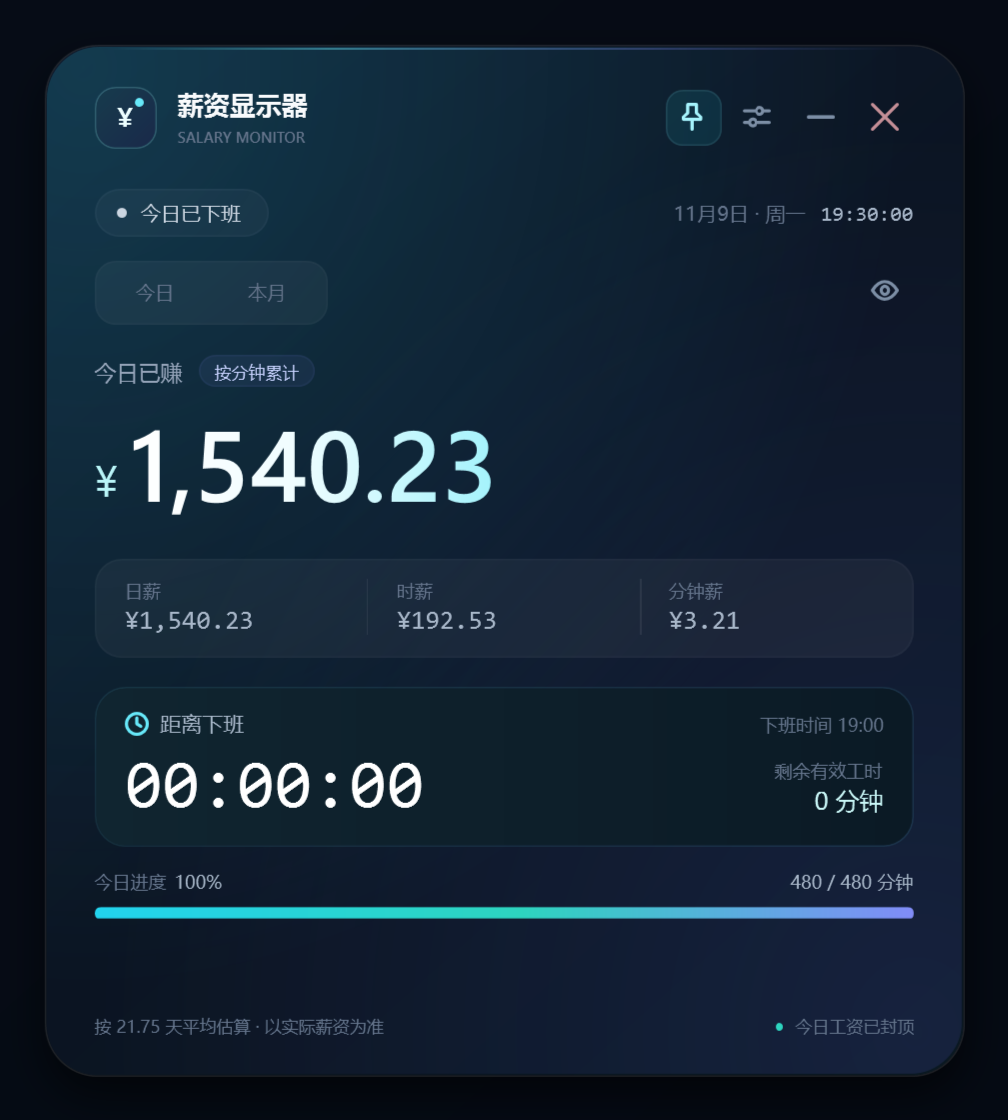
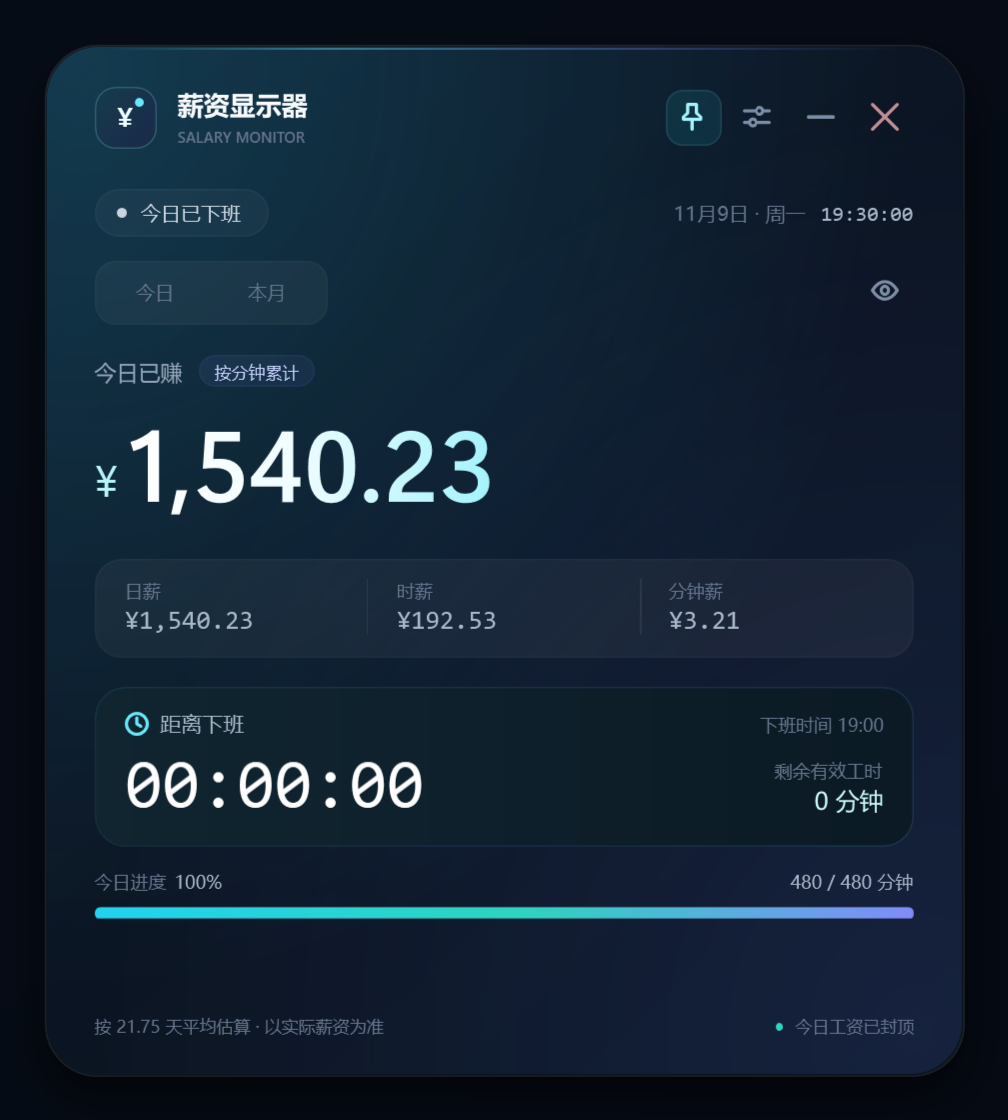
Improve Windows digit anti-aliasing for v1.3.1

Changed region(s): [[0.2153, 0.375, 0.4921, 0.4688], [0.1538, 0.4375, 0.2153, 0.4688]]

diff --git a/src/UI/MainWindow.cs b/src/UI/MainWindow.cs
@@ -442,8 +442,8 @@ namespace SalaryMonitor.UI
             currency.Margin = new Thickness(0, 0, 6, 9);
             row.Children.Add(currency);
 
-            _monthAmountText = Theme.Text("0.00", 50, Theme.AmountForeground,
-                Theme.NumberFont, FontWeights.SemiBold);
+            _monthAmountText = Theme.AnimatedDigits(Theme.Text(
+                "0.00", 50, Theme.AmountForeground, Theme.NumberFont, FontWeights.Medium));
             _monthAmountText.VerticalAlignment = VerticalAlignment.Bottom;
             _monthAmountText.HorizontalAlignment = HorizontalAlignment.Left;
             row.Children.Add(_monthAmountText);
@@ -538,8 +538,8 @@ namespace SalaryMonitor.UI
             StackPanel count = new StackPanel();
             count.Orientation = Orientation.Horizontal;
             count.VerticalAlignment = VerticalAlignment.Bottom;
-            _monthPaydayDaysText = Theme.Text("—", 34, Theme.White,
-                Theme.MonoFont, FontWeights.Normal);
+            _monthPaydayDaysText = Theme.AnimatedDigits(Theme.Text(
+                "—", 34, Theme.White, Theme.MonoFont, FontWeights.Normal));
             _monthPaydayDaysText.VerticalAlignment = VerticalAlignment.Bottom;
             _monthPaydayUnitText = Theme.CnText("天", 11, Theme.TextSoft, FontWeights.Normal);
             _monthPaydayUnitText.Margin = new Thickness(5, 0, 0, 7);
@@ -646,7 +646,8 @@ namespace SalaryMonitor.UI
             currency.Margin = new Thickness(0, 0, 6, 9);
             row.Children.Add(currency);
 
-            _amountText = Theme.Text("0.00", 50, Theme.AmountForeground, Theme.NumberFont, FontWeights.SemiBold);
+            _amountText = Theme.AnimatedDigits(Theme.Text(
+                "0.00", 50, Theme.AmountForeground, Theme.NumberFont, FontWeights.Medium));
             _amountText.VerticalAlignment = VerticalAlignment.Bottom;
             _amountText.HorizontalAlignment = HorizontalAlignment.Left;
             row.Children.Add(_amountText);
@@ -740,7 +741,7 @@ namespace SalaryMonitor.UI
             timerRow.ColumnDefinitions.Add(new ColumnDefinition { Width = new GridLength(1, GridUnitType.Star) });
             timerRow.ColumnDefinitions.Add(new ColumnDefinition { Width = GridLength.Auto });
 
-            _timerText = Theme.MonoText("00:00:00", 34, Theme.White);
+            _timerText = Theme.AnimatedDigits(Theme.MonoText("00:00:00", 34, Theme.White));
             _timerText.VerticalAlignment = VerticalAlignment.Bottom;
             timerRow.Children.Add(_timerText);
 

diff --git a/src/UI/Theme.cs b/src/UI/Theme.cs
@@ -13,7 +13,10 @@ namespace SalaryMonitor.UI
         public static readonly FontFamily ChineseFont = new FontFamily("Microsoft YaHei UI");
         public static readonly FontFamily UiFont = new FontFamily("Segoe UI");
         public static readonly FontFamily MonoFont = new FontFamily("Consolas");
-        public static readonly FontFamily NumberFont = new FontFamily("Segoe UI");
+        // Display-optimized Segoe UI Variable has rounder, smoother large digits
+        // on Windows 11; Windows 10 falls back to the classic Segoe UI family.
+        public static readonly FontFamily NumberFont =
+            new FontFamily("Segoe UI Variable Display, Segoe UI");
 
         public static readonly Color TextPrimaryColor = Hex("#F8FAFC");
         public static readonly Color TextSecondaryColor = Hex("#94A3B8");
@@ -167,7 +170,20 @@ namespace SalaryMonitor.UI
             text.TextWrapping = TextWrapping.NoWrap;
             text.VerticalAlignment = VerticalAlignment.Center;
             TextOptions.SetTextFormattingMode(text, TextFormattingMode.Ideal);
-            TextOptions.SetTextRenderingMode(text, TextRenderingMode.Grayscale);
+            TextOptions.SetTextRenderingMode(text, TextRenderingMode.Auto);
+            return text;
+        }
+
+        /// <summary>
+        /// Large, continuously changing digits look smoother without pixel
+        /// hinting. Small labels keep their normal hinting for crispness.
+        /// </summary>
+        public static TextBlock AnimatedDigits(TextBlock text)
+        {
+            if (text != null)
+            {
+                TextOptions.SetTextHintingMode(text, TextHintingMode.Animated);
+            }
             return text;
         }
 

diff --git a/src/AssemblyInfo.cs b/src/AssemblyInfo.cs
@@ -13,6 +13,6 @@ using System.Runtime.InteropServices;
 [assembly: ComVisible(false)]
 [assembly: Guid("a9b885d0-bf93-45c0-b7ef-2d3f5cecb4d3")]
 
-[assembly: AssemblyVersion("1.3.0.0")]
-[assembly: AssemblyFileVersion("1.3.0.0")]
-[assembly: AssemblyInformationalVersion("1.3.0")]
+[assembly: AssemblyVersion("1.3.1.0")]
+[assembly: AssemblyFileVersion("1.3.1.0")]
+[assembly: AssemblyInformationalVersion("1.3.1")]

diff --git a/docs/03-测试记录.md b/docs/03-测试记录.md
@@ -1,10 +1,10 @@
-# 薪资显示器 v1.3.0 · 测试记录
+# 薪资显示器 v1.3.1 · 测试记录
 
 > **执行日期**：2026-11-16  
 > **执行人**：AI 编码代理  
 > **对应需求**：[`01-需求与方案设计.md`](01-需求与方案设计.md)  
 > **对应用例**：[`02-测试用例.md`](02-测试用例.md)  
-> **结论**：**核心功能、实际工作日模式、金额隐私显示、本月视图与交付验证通过（PASS）**；环境类未覆盖项见第 7 节。
+> **结论**：**核心功能、实际工作日模式、金额隐私显示、本月视图、数字抗锯齿优化与交付验证通过（PASS）**；环境类未覆盖项见第 7 节。
 
 ---
 
@@ -14,8 +14,8 @@
 |---|---|
 | 产物 | `dist\薪资显示器.exe` |
 | 文件大小 | 228,864 字节 |
-| 产品版本 | 1.3.0.0 |
[1 lines of base64/hex data omitted]
+| 产品版本 | 1.3.1.0 |
[1 lines of base64/hex data omitted]
 | 分发目录 | 包含 exe 与 Android APK；删除旧测试遗留的 `SalaryMonitor.settings.json`，交付目录无多余便携配置 |
 | PE 子系统 | 2（Windows GUI，无控制台窗口） |
 | 图标 | 已嵌入并可提取 |
@@ -78,6 +78,7 @@ RESULT: PASS
 | 本月累计 | 2026-11-05 默认 ¥5,673.18、实际模式 ¥5,875.79；2026-12 月末平均模式高于月薪、实际模式等于月薪 |
 | 本月进度 | 完整工作日 + 今日已完成分钟折算；节假日/调休/周末与现有日历规则一致 |
 | 发薪日 | 15 日跨月、当天、次日；短月 31→最后一天；闰年 29；未设置；跨年；校验与克隆 |
+| 数字渲染 | 大金额/倒计时使用 Ideal 排版、Auto 渲染、Animated 提示；字体回退与字重不影响布局和数值 |
 | 自定义排班 | 510 分钟、420 分钟排班按自身分钟数重新计算费率 |
 | 金额格式 | 千分位、两位小数、四舍五入远离零、全天无累计舍入误差 |
 | 参数校验 | 薪资、计薪天数、时间格式、时间顺序、跨天排班 |
@@ -103,13 +104,14 @@ RESULT: PASS
 
 ## 4. UI 自动化验证
 
-测试构建额外支持固定时钟和测试配置目录（仅 `UI_TEST_BUILD`；正式 exe 不包含）。v1.0.2 已用 Windows UI Automation 执行 UI 冒烟；v1.1.0 构建后重新做截图验证；v1.2.0 用 UI Automation 实际点击小眼睛并核对配置文件；v1.3.0 增加今日/本月切换、发薪日保存和本月隐私检查，结果 `PASS`。
+测试构建额外支持固定时钟和测试配置目录（仅 `UI_TEST_BUILD`；正式 exe 不包含）。v1.0.2 已用 Windows UI Automation 执行 UI 冒烟；v1.1.0 构建后重新做截图验证；v1.2.0 用 UI Automation 实际点击小眼睛并核对配置文件；v1.3.0 增加今日/本月切换、发薪日保存和本月隐私检查；v1.3.1 复跑并核对数字渲染，结果 `PASS`。
 
 | 场景 | 结果 |
 |---|---|
 | 16:28:35 主界面 | 显示 ¥1,052.49、02:31:25、68.3%、328/480 分钟 |
 | 本月视图 | 切到“本月”显示 ¥5,673.18、3.7 / 21 天、发薪日未设置；切回今日恢复 ¥1,052.49 |
 | 本月隐私 | 在本月页点击小眼睛后金额 `••••••`、日薪 `¥••••`；再次点击恢复；切页签不闪出金额 |
+| 数字抗锯齿 | 大金额、倒计时和本月金额使用新字体/字重与 Animated 提示；125% 缩放下边缘更平滑，金额宽度和布局无溢出 |
 | 小眼睛隐藏 | 实际点击后主金额变为 `••••••`、费率变为 `¥••••`，配置写入 `amountsHidden=true` |
 | 隐藏状态重启 | 关闭并重启后仍显示 `••••••`，说明持久化生效 |
 | 小眼睛恢复 | 再次点击后恢复 ¥1,052.49；按钮 Tooltip 在“隐藏金额/显示金额”之间切换 |
@@ -133,7 +135,7 @@ RESULT: PASS
 | 最小化/恢复 | 最小化成功，恢复后窗口可继续操作 |
 | 关闭 | 关闭按钮后进程退出，无托盘残留 |
 
-### 4.1 受限启动保存回归（v1.0.1 修复，v1.3.0 复跑）
+### 4.1 受限启动保存回归（v1.0.1 修复，v1.3.1 复跑）
 
 将正式 exe 复制到隔离目录 `build\portable-ui-test`，以当前普通用户、**非管理员、Low Integrity** 启动：
 
@@ -163,6 +165,7 @@ PORTABLE UI TEST: PASS
 - [隐藏工资](screenshots/main-hidden.png)
 - [本月视图](screenshots/month.png)
 - [本月隐藏工资](screenshots/month-hidden.png)
+- [数字渲染对比（v1.3.0 / v1.3.1）](screenshots/typography-compare.png)
 - [上班前](screenshots/main-before-work.png)
 - [午休态](screenshots/main-lunch.png)
 - [下班后](screenshots/main-after-work.png)
@@ -203,7 +206,7 @@ TIMER_AND_MINUTE_UPDATE: PASS
 | 关闭 | 进程正常退出 |
 | 文件数量 | `dist` 目录仅包含 Windows exe 与 Android APK，无遗留便携配置 |
 | 图标 | 提取成功 |
-| 文件版本 | 1.3.0.0，产品名“薪资显示器” |
+| 文件版本 | 1.3.1.0，产品名“薪资显示器” |
 | 配置路径 | 默认 `%APPDATA%\SalaryMonitor\settings.json`；AppData 不可写时回退到 exe 同目录 `SalaryMonitor.settings.json` |
 
 ---
@@ -256,6 +259,7 @@ TIMER_AND_MINUTE_UPDATE: PASS
 - 实际工作日模式已按 2026—2027 年国务院节假日/调休表验证，设置页、主界面和配置迁移均通过。
 - 金额隐私显示已通过 UI Automation 实际点击验证：主金额与三项费率同时遮挡、状态持久化、再次点击恢复，且计算与倒计时不受影响。
 - 本月视图已通过 UI Automation 验证：今日/本月切换、本月金额、工作日进度、发薪日设置与保存、本月隐私遮挡、重启恢复均通过。
+- v1.3.1 大数字改用 Segoe UI Variable Display（Windows 10 回退 Segoe UI）、Medium 字重，并对持续变化的大数字关闭像素提示；主界面、倒计时和本月金额的截图与 UI 自动化均通过。
 - 视觉实现与确认稿方向一致，真实界面无裁切。
 - 最终 exe 为单文件 Windows GUI 程序，无控制台、不需要管理员权限、无外部运行依赖（除系统 .NET Framework 4.8）。
 - AppData 不可写的受限启动场景已自动回退到 exe 同目录配置，保存和重启恢复均通过。

diff --git a/docs/01-需求与方案设计.md b/docs/01-需求与方案设计.md
@@ -1,8 +1,8 @@
 # 薪资显示器（Windows）· 产品与方案设计
 
-> **文档版本**：v1.3（已实现）  
+> **文档版本**：v1.3.1（已实现）  
 > **编写日期**：2026-11-16  
-> **当前状态**：v1.3.0 已完成实现、自动化测试、UI 截图验证和 exe 打包；在 v1.2.0 基础上增加“本月”视图、发薪日倒计时与本月工作日进度。  
+> **当前状态**：v1.3.1 已完成实现、自动化测试、UI 截图验证和 exe 打包；在 v1.3.0 的“本月”视图基础上优化 Windows 大数字抗锯齿与字体观感。  
 > **执行记录**：[`03-测试记录.md`](03-测试记录.md)  
 > **需求来源**：本次对话中的原始需求与后续确认。
 
@@ -231,7 +231,7 @@ M           = (午休开始 − 上班时间) + (下班时间 − 午休结束)
 
 视觉概念稿见：[`../design/ui-concept.png`](../design/ui-concept.png)（HTML 源稿：[`../design/ui-concept.html`](../design/ui-concept.html)）。
 
-最终实现截图：[工作态主界面](screenshots/main-working.png)、[隐藏金额](screenshots/main-hidden.png)、[本月视图](screenshots/month.png)、[本月隐藏金额](screenshots/month-hidden.png)、[设置页](screenshots/settings-default.png)、[实际工作日设置](screenshots/settings-actual.png)、[实际工作日主界面](screenshots/main-actual.png)、[法定节假日](screenshots/main-holiday.png)、[调休上班日](screenshots/main-makeup.png)、[午休态](screenshots/main-lunch.png)、[休息日](screenshots/main-weekend.png)。
+最终实现截图：[工作态主界面](screenshots/main-working.png)、[隐藏金额](screenshots/main-hidden.png)、[本月视图](screenshots/month.png)、[本月隐藏金额](screenshots/month-hidden.png)、[数字渲染对比](screenshots/typography-compare.png)、[设置页](screenshots/settings-default.png)、[实际工作日设置](screenshots/settings-actual.png)、[实际工作日主界面](screenshots/main-actual.png)、[法定节假日](screenshots/main-holiday.png)、[调休上班日](screenshots/main-makeup.png)、[午休态](screenshots/main-lunch.png)、[休息日](screenshots/main-weekend.png)。
 
 ### 5.2 主窗口信息结构
 
@@ -595,5 +595,6 @@ SalaryMonitor/
 6. **交付为单文件便携 exe**，需系统具备 .NET Framework 4.8，不做安装包与数字签名。
 7. **视觉方向**：深色玻璃卡片 + 青蓝渐变，采用概念稿的布局和信息层级。
 8. **v1.3 月度口径**：本月纯计算、不存账本；平均模式按日薪累计并明确提示月末可能不等于月薪；发薪日可选、按自然日、短月按最后一天。
+9. **v1.3.1 数字渲染**：大金额使用 Segoe UI Variable Display（Windows 10 回退 Segoe UI）、Medium 字重；大数字使用 Ideal 排版与 Animated 提示模式，减少锯齿和动画时的抖动；未知字体环境自动回退。
 
 实现结果与验收证据见 [`03-测试记录.md`](03-测试记录.md)。

diff --git a/docs/02-测试用例.md b/docs/02-测试用例.md
@@ -1,6 +1,6 @@
 # 薪资显示器（Windows）· 测试用例
 
-> **文档版本**：v1.3（已实现）  
+> **文档版本**：v1.3.1（已实现）  
 > **编写日期**：2026-11-16  
 > **对应设计**：[`01-需求与方案设计.md`](01-需求与方案设计.md)  
 > **执行记录**：[`03-测试记录.md`](03-测试记录.md)  
@@ -267,6 +267,7 @@
 | UI-034 | P0 | 设置发薪日 15 并保存 | 下次发薪 11-15、还有 10 天（2026-11-05）；月薪改为 40,000 后本月累计 ¥6,773.95 |
 | UI-035 | P1 | 重启后查看本月页 | 本月累计、发薪日和小眼睛状态保持；切换今日/本月正常 |
 | UI-036 | P1 | 2026-12-31 查看本月（平均模式） | 本月累计高于月薪；底部显示“日薪累计估算 · 月末可能不等于月薪” |
+| UI-037 | P1 | 125% 缩放查看大金额、倒计时和本月金额 | 数字边缘平滑、无明显锯齿；金额不溢出；Windows 10 无变量字体时回退 Segoe UI 仍正常 |
 
 ---
 
@@ -280,7 +281,7 @@
 | PKG-004 | P1 | 将 exe 放在含中文、空格的路径下运行 | 正常启动；配置写入 `%APPDATA%`，不可写时写入 exe 同目录 |
 | PKG-005 | P1 | 断网运行 | 全部功能正常；无联网提示或长时间等待 |
 | PKG-006 | P1 | 删除配置后启动并重新保存、重启 | 使用默认值 → 保存新值 → 重启后新值保留 |
-| PKG-007 | P1 | 检查 exe 文件属性 | 产品名、版本、图标存在；v1.3.0 显示 FileVersion 1.3.0.0，与 README 一致 |
+| PKG-007 | P1 | 检查 exe 文件属性 | 产品名、版本、图标存在；v1.3.1 显示 FileVersion 1.3.1.0，与 README 一致 |
 | PKG-008 | P2 | 在 Windows 10 环境运行 | 如条件允许，执行一次启动/界面/设置冒烟；无条件则记录未覆盖风险 |
 
 ---

diff --git a/README.md b/README.md
@@ -2,6 +2,8 @@
 
 一个轻量的薪资显示器，提供 Windows 桌面版和 Android 手机版：按分钟累计今天的收入，按秒倒数距离下班的时间；v1.3 起还可切换到“本月”，查看本月累计、工作日进度和发薪日倒计时，并可用小眼睛一键隐藏工资金额。
 
+> Windows v1.3.1 优化数字渲染：大金额改用 Segoe UI Variable Display（Windows 10 回退 Segoe UI）、Medium 字重，并对持续变化的大数字关闭像素提示，减少锯齿和发虚。对比见 [数字渲染对比](docs/screenshots/typography-compare.png)。
+
 ![主界面](docs/screenshots/main-working.png)
 
 ## 立即使用
@@ -57,7 +59,7 @@ Android 版的构建、限制与目录说明见 [android/README.md](android/READ
 
 Android 版还可在设置中开启“按当月实际工作日计薪”：例如 2026 年 11 月有 21 个工作日，日薪为 `33,500 ÷ 21 ≈ ¥1,595.24`；法定节假日不计薪，调休周末正常计薪。
 
-Windows v1.3.0 也提供同名开关，使用同一套 2026—2027 年节假日/调休表；默认仍为 21.75 天平均。
+Windows v1.3.1 也提供同名开关，使用同一套 2026—2027 年节假日/调休表；默认仍为 21.75 天平均。
 
 ### 本月视图
 
@@ -182,4 +184,4 @@ powershell.exe -NoLogo -NoProfile -ExecutionPolicy Bypass -File .\android\build.
 
 ---
 
-Windows 版：**1.3.0** · Android 版：**1.3.0** · 构建日期：2026-11-16
+Windows 版：**1.3.1** · Android 版：**1.3.0** · 构建日期：2026-11-16
